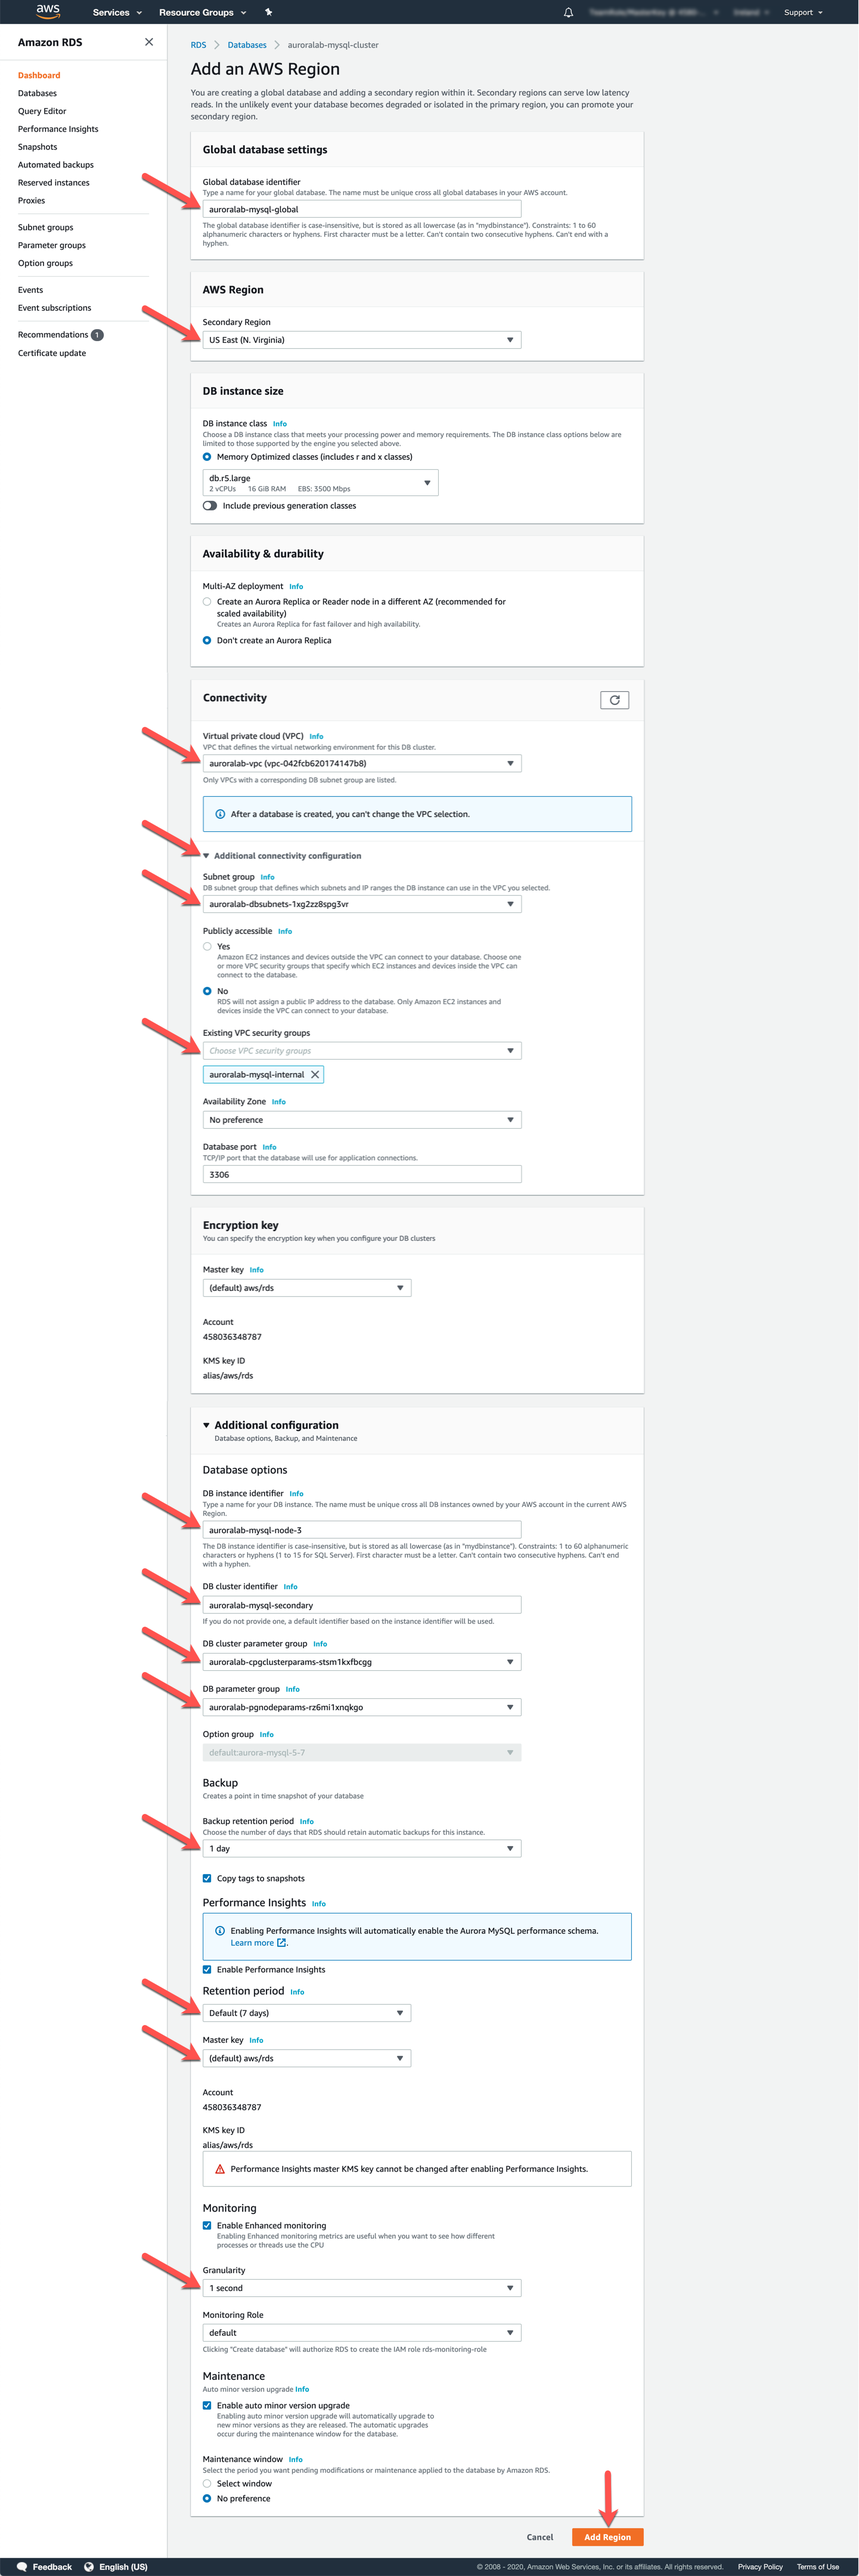
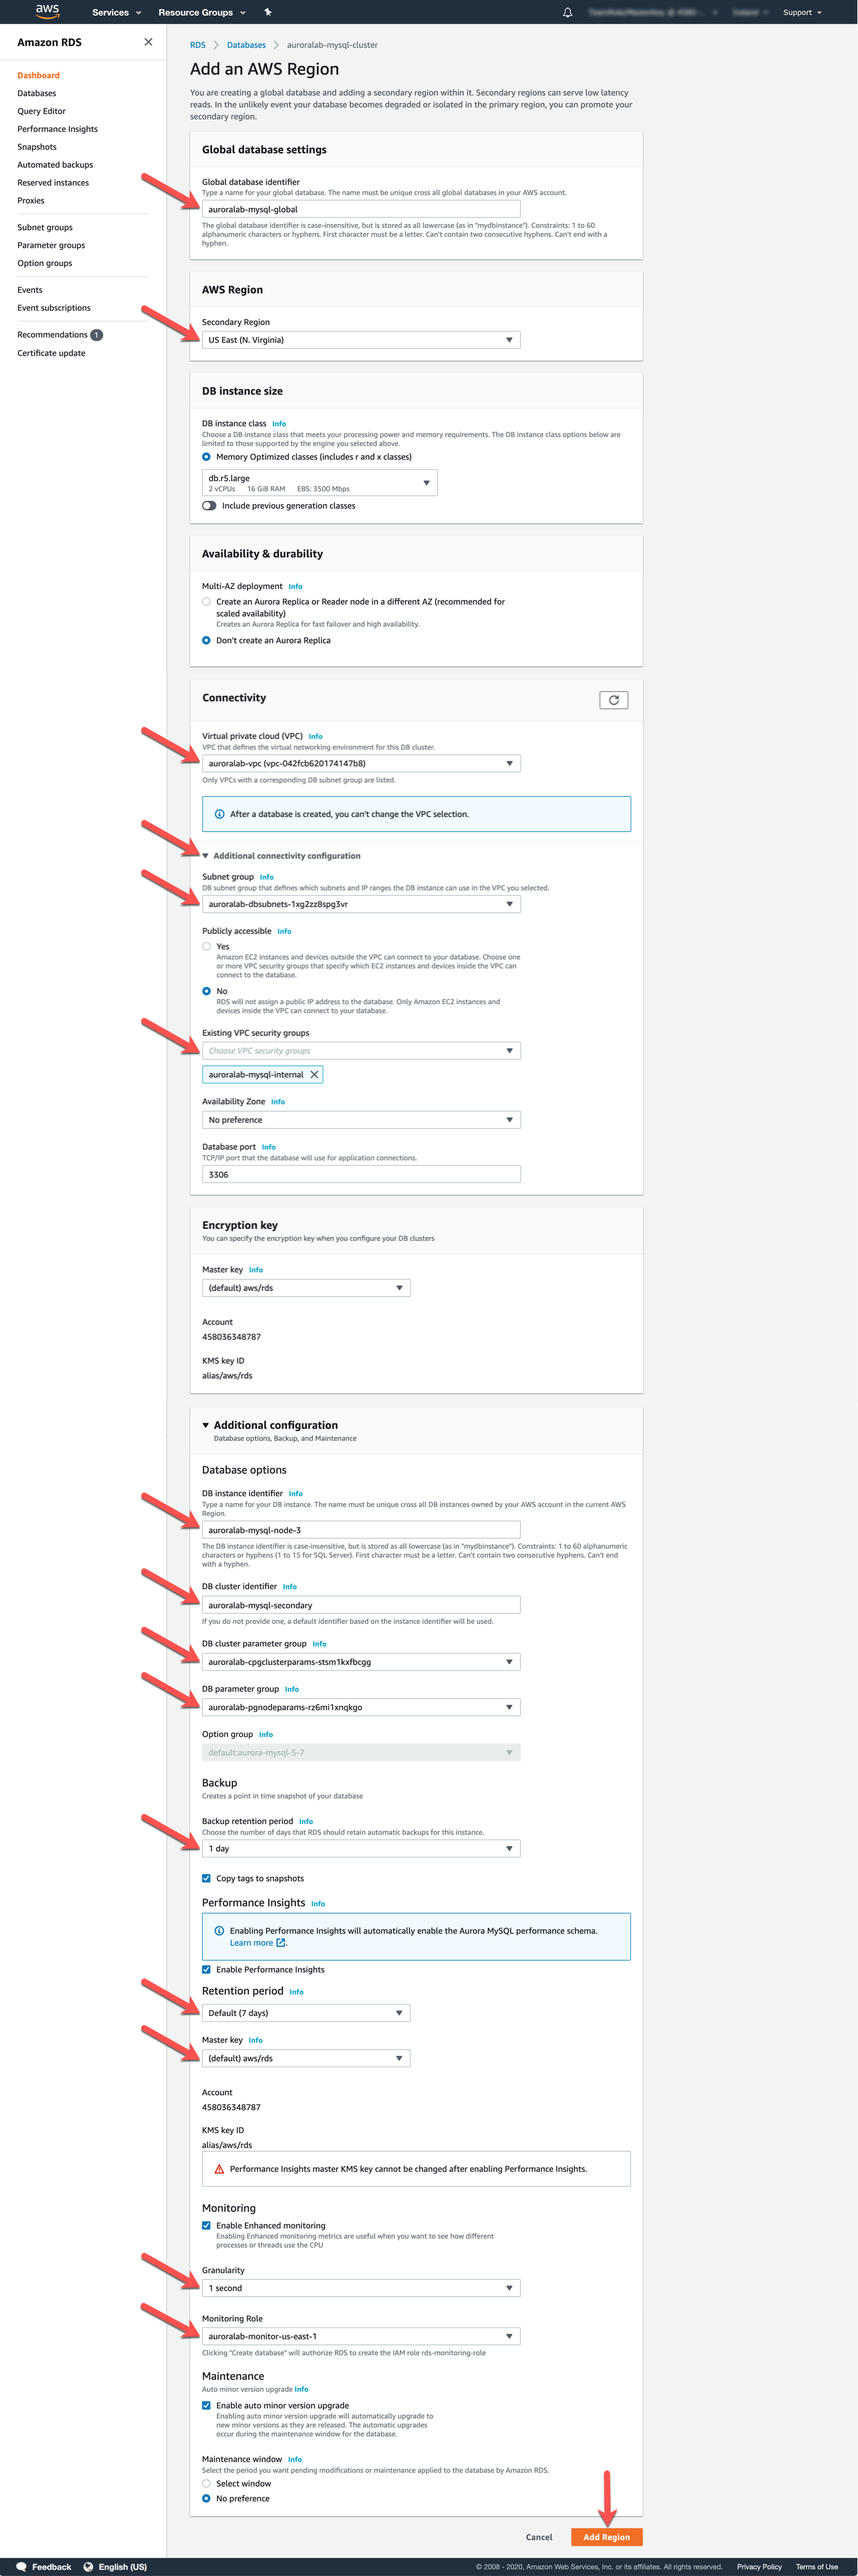
Bug fix in AMS GDB lab

diff --git a/docs/win/ams-gdb/index.md b/docs/win/ams-gdb/index.md
@@ -86,7 +86,10 @@ Pick the **Virtual Private Cloud (VPC)** named `auroralab-vpc`. Similarly make s
 
 Next, expand the **Advanced configuration** section. Set the **DB instance identifier** to `auroralab-mysql-node-3` and the **DB cluster identifier** to `auroralab-mysql-secondary`. For the **DB cluster parameter group** and **DB parameter group** selectors, choose the groups with the stack name in their name (e.g. `auroralab-[...]`).
 
-Keep the `1 day` **Backup retention period**. Check the box to **Enable Performance Insights** with a **Retention period** of `Default (7 days)` and use the `[default] aws/rds` **Master key** for monitoring data encryption. Next, check the **Enable Enhanced Monitoring** box, and select a **Granularity** of `1 second`.
+Keep the `1 day` **Backup retention period**. Check the box to **Enable Performance Insights** with a **Retention period** of `Default (7 days)` and use the `[default] aws/rds` **Master key** for monitoring data encryption. Next, check the **Enable Enhanced Monitoring** box, select a **Granularity** of `1 second` and select the **Monitoring Role** value `auroralab-monitor-us-east-1`.
+
+!!! note
+    Please note there are **two** monitoring roles in the list, one for the main region (the one in the top right corner of your web page), the other for the secondary region (typically `us-east-1`). At this step, you need the secondary one.
 
 <span class="image">![RDS Cluster Add Region](rds-cluster-add-region.png?raw=true)</span>
 

diff --git a/docs/win/ams-connect/index.md b/docs/win/ams-connect/index.md
@@ -66,7 +66,7 @@ You should see the output: `* bootstrap complete, rebooting`, if that is not the
 
 Connect to the Aurora database just like you would to any other MySQL-based database, using a compatible client tool. In this lab you will be using the `mysql` command line tool to connect.
 
-If you are not already connected to the Session Manager workstation command line from previous labs, please connect [following these instructions](/prereqs/connect/). Once connected, run the command below, replacing the ==[mysqlClusterEndpoint]== placeholder with the cluster endpoint of your DB cluster. If you have completed the previous lab, and created the Aurora DB cluster manually, you would find the cluster endpoint on the DB cluster details page in the RDS console. If you have skipped that lab and provisioned the DB cluster using the CloudFormation template, you can find the value for the cluster endpoint parameter in the stack outputs.
+Run the command below, replacing the ==[mysqlClusterEndpoint]== placeholder with the cluster endpoint of your DB cluster. You will find the value for the cluster endpoint parameter in the CloudFormation stack outputs.
 
 
 ```shell
